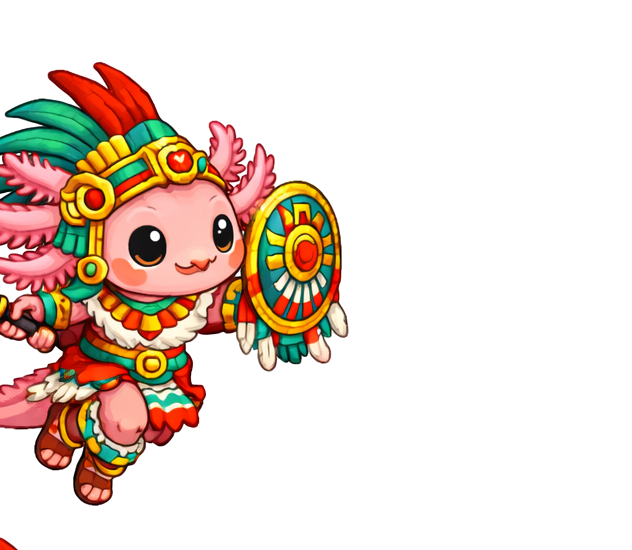
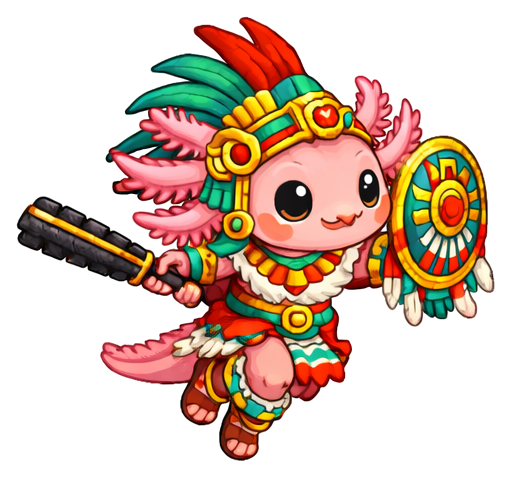
Use animation pack with walk/run/jump/attack frames
NEW ANIMATION FRAMES (from axolotl_warrior_pack):
- xochi_walk.png - Walking/idle pose
- xochi_run.png - Running pose (leaning forward)
- xochi_jump.png - Jump/airborne pose
- xochi_attack.png - Attack pose (mace raised)

ANIMATION LOGIC:
- Idle: walk frame
- Walking: walk frame
- Running (SHIFT): run frame
- Jumping: jump frame
- Attack (C): attack frame

PHYSICS:
- Scale: 0.15 (slightly larger)
- Hitbox: 200x350 with offset 110,100

White backgrounds removed from all frames.

diff --git a/xochi-web/game.js b/xochi-web/game.js
@@ -753,15 +753,13 @@ class BootScene extends Phaser.Scene {
     this.load.audio('sfx-hurt', 'public/assets/audio/bump.ogg');
     this.load.audio('sfx-superjump', 'public/assets/audio/powerup_appears.ogg');
 
-    // Load Xochi (Aztec axolotl warrior) animation frames
-    this.load.image('xochi_idle', 'public/assets/xochi_main_asset/xochi_walk2.png');   // Standing pose
-    this.load.image('xochi_walk1', 'public/assets/xochi_main_asset/xochi_walk1.png');  // Walk frame 1
-    this.load.image('xochi_walk2', 'public/assets/xochi_main_asset/xochi_walk2.png');  // Walk frame 2
-    this.load.image('xochi_walk3', 'public/assets/xochi_main_asset/xochi_walk3.png');  // Walk frame 3
-    this.load.image('xochi_jump', 'public/assets/xochi_main_asset/xochi_jump.png');    // Jump/air pose
-    // Legacy key for compatibility
-    this.load.image('xochi', 'public/assets/xochi_main_asset/xochi_walk2.png');
-    this.load.image('xochi-attack', 'public/assets/xochi_main_asset/xochi_walk3.png');
+    // Load Xochi (Aztec axolotl warrior) animation frames from pack
+    this.load.image('xochi_walk', 'public/assets/xochi_main_asset/xochi_walk.png');     // Walk pose
+    this.load.image('xochi_run', 'public/assets/xochi_main_asset/xochi_run.png');       // Run pose
+    this.load.image('xochi_jump', 'public/assets/xochi_main_asset/xochi_jump.png');     // Jump pose
+    this.load.image('xochi_attack', 'public/assets/xochi_main_asset/xochi_attack.png'); // Attack pose
+    // Default/legacy keys
+    this.load.image('xochi', 'public/assets/xochi_main_asset/xochi_walk.png');
   }
 
   create() {
@@ -1396,7 +1394,7 @@ class MenuScene extends Phaser.Scene {
     const glow = this.add.circle(width/2, 170, 35, 0xff6b9d, 0.3);
     this.tweens.add({ targets: glow, scale: 1.2, alpha: 0.1, duration: 1000, yoyo: true, repeat: -1 });
     // Character
-    const xochi = this.add.sprite(width/2, 170, 'xochi').setScale(0.24);
+    const xochi = this.add.sprite(width/2, 170, 'xochi_walk').setScale(0.28);
     this.tweens.add({ targets: xochi, y: 160, duration: 800, yoyo: true, repeat: -1, ease: 'Sine.easeInOut' });
 
     // ============ SNES-STYLE SCOREBOARD ============
@@ -1707,12 +1705,12 @@ class GameScene extends Phaser.Scene {
       });
     }
 
-    // Player (Aztec axolotl warrior - ~500x574 sprite frames at 0.12 scale)
-    this.player = this.physics.add.sprite(ld.playerSpawn.x, ld.playerSpawn.y, 'xochi').setScale(0.12);
+    // Player (Aztec axolotl warrior - ~420x450 sprite frames at 0.15 scale)
+    this.player = this.physics.add.sprite(ld.playerSpawn.x, ld.playerSpawn.y, 'xochi_walk').setScale(0.15);
     this.player.setCollideWorldBounds(true);
-    // Hitbox for ~500x574 frames: body is roughly center, feet at bottom
-    this.player.body.setSize(280, 400);
-    this.player.body.setOffset(110, 150); // Center hitbox, feet touch ground
+    // Hitbox for ~420x450 frames: smaller box for body, feet at bottom
+    this.player.body.setSize(200, 350);
+    this.player.body.setOffset(110, 100); // Center hitbox, feet touch ground
     this.player.setData('big', false);
     this.player.setData('invincible', false);
     this.player.setData('dead', false);
@@ -2278,26 +2276,13 @@ class GameScene extends Phaser.Scene {
       this.isAttacking = true;
       this.attackCooldown = 500; // 0.5 second cooldown for regular swing
 
-      // MACE SWING ANIMATION - use attack frame + rotation
+      // MACE SWING ANIMATION - use attack frame
       const dir = this.player.flipX ? -1 : 1;
 
       // Switch to attack frame (mace raised)
-      this.player.setTexture('xochi_walk3');
+      this.player.setTexture('xochi_attack');
 
-      // Swing rotation
-      this.tweens.add({
-        targets: this.player,
-        rotation: dir * 0.4,
-        duration: 100,
-        ease: 'Power3',
-        yoyo: true,
-        onComplete: () => {
-          this.player.setRotation(0);
-          this.player.setTexture('xochi_idle');
-        }
-      });
-
-      this.playSound('sfx-jump'); // Whoosh sound
+      this.playSound('sfx-stomp'); // Attack sound
 
       // Melee hit enemies very close (no thunderbolt)
       const meleeRange = 60;
@@ -2386,39 +2371,31 @@ class GameScene extends Phaser.Scene {
       });
     }
 
-    // ============ SIMPLE FRAME ANIMATION ============
+    // ============ FRAME ANIMATION ============
     const isMoving = Math.abs(this.player.body.velocity.x) > 10;
     const isInAir = !onGround;
-
-    // Walk animation frames
-    const walkFrames = ['xochi_walk1', 'xochi_walk2', 'xochi_walk3', 'xochi_walk2'];
-    const walkFrameSpeed = this.keys.SHIFT.isDown ? 80 : 120;
-
-    // WALKING - cycle through frames
-    if (isMoving && onGround && !this.isAttacking) {
-      this.walkFrameTime += 16;
-      if (this.walkFrameTime >= walkFrameSpeed) {
-        this.walkFrameTime = 0;
-        this.walkFrame = (this.walkFrame + 1) % walkFrames.length;
-        this.player.setTexture(walkFrames[this.walkFrame]);
-      }
-      this.player.setRotation(0);
+    const isRunning = this.keys.SHIFT.isDown;
 
     // JUMPING - use jump frame
-    } else if (isInAir && !this.isAttacking) {
+    if (isInAir && !this.isAttacking) {
       this.player.setTexture('xochi_jump');
-      this.player.setRotation(0);
 
-    // IDLE - standing pose
+    // RUNNING (SHIFT held) - use run frame
+    } else if (isMoving && isRunning && onGround && !this.isAttacking) {
+      this.player.setTexture('xochi_run');
+
+    // WALKING - use walk frame
+    } else if (isMoving && onGround && !this.isAttacking) {
+      this.player.setTexture('xochi_walk');
+
+    // IDLE - use walk frame (standing pose)
     } else if (!this.isAttacking) {
-      this.player.setTexture('xochi_walk2'); // Idle pose
-      this.player.setRotation(0);
-      this.walkFrame = 0;
-      this.walkFrameTime = 0;
+      this.player.setTexture('xochi_walk');
     }
 
-    // Keep scale constant
-    this.player.setScale(0.12);
+    // Keep scale and rotation constant
+    this.player.setScale(0.15);
+    this.player.setRotation(0);
 
     // Enemies patrol
     const now = this.time.now;
@@ -2647,7 +2624,7 @@ class EndScene extends Phaser.Scene {
     }
 
     // Xochi
-    const x = this.add.sprite(width/2, 300, 'xochi').setScale(0.26);
+    const x = this.add.sprite(width/2, 300, 'xochi_walk').setScale(0.30);
     this.tweens.add({ targets: x, y: 285, duration: 800, yoyo: true, repeat: -1, ease: 'Sine.easeInOut' });
 
     // Stats

diff --git a/xochi-web/public/assets/xochi_main_asset/axolotl_warrior_pack/README.md b/xochi-web/public/assets/xochi_main_asset/axolotl_warrior_pack/README.md
@@ -1,0 +1,47 @@
+# Axolotl Warrior — Action Frames + Skeleton Template
+
+This pack contains:
+- 4 extracted action poses (PNG, white background)
+  - walk.png
+  - run.png
+  - jump.png
+  - attack.png
+- A convenience spritesheet with those 4 poses in order:
+  - axolotl_warrior_actions_sheet.png
+- JSON files:
+  - animation_manifest.json  (simple frame-based manifest)
+  - skeleton_template.json   (engine-agnostic bone hierarchy template)
+
+## Important caveat (so you don't waste time)
+These 4 images are *key poses*, not full cycles. For smooth gameplay you usually want:
+- WALK: 6–8 frames (or a bone rig)
+- RUN: 6–8 frames
+- JUMP: 3 phases (start/loop/land)
+- ATTACK: 3 phases (windup/hit/recovery)
+
+## If you want fluid skeletal animation
+You need the character cut into parts (head/torso/limbs/tail/gills/weapon/shield) and then rigged in:
+- Spine (recommended), DragonBones, Unity 2D Animation, or Godot Skeleton2D.
+
+Use `skeleton_template.json` as the starting bone hierarchy:
+- root -> hips -> spine -> head
+- tail_1/tail_2 for tail sway
+- gills_L/gills_R for secondary motion
+- weapon is attached to hand_L
+- shield is attached to hand_R
+
+## Quick usage (frame-based)
+Load `animation_manifest.json`, then play the frames in this order:
+walk -> run -> jump -> attack
+
+Example pseudo:
+- walk: 120ms
+- run: 120ms
+- jump: 180ms
+- attack: 180ms
+
+## Suggested next upgrade
+If you upload a *layered* version (separate PNGs per body part), I can generate:
+- a proper bone-weight plan (exact pivots)
+- a richer manifest (multiple frames per action)
+- naming conventions ready for your engine
